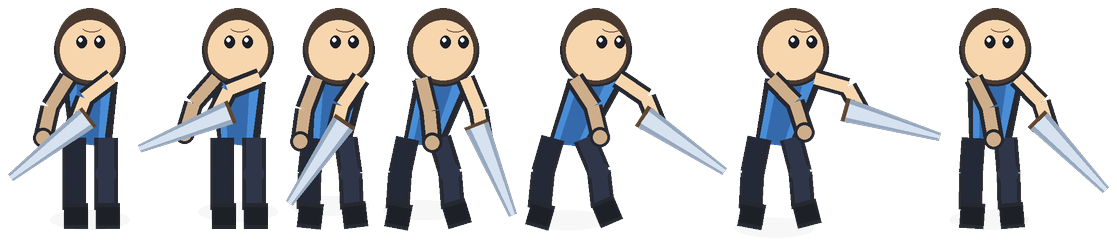
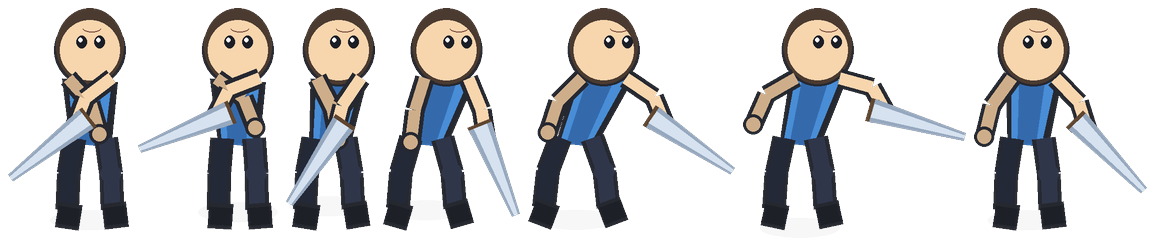
walk 동작 개선: 다리 스윙 각도를 기울기와 분리, 몸체 들림 폭 확대, 6프레임 전부 크기 다름

Changed region(s): [[0.0304, 0.0285, 0.6697, 0.939], [0.6392, 0.0285, 0.974, 0.939], [0.0609, 0.0285, 0.0913, 0.0569]]

diff --git a/Labs/LEC08_Animation/make_sprite_sheet.py b/Labs/LEC08_Animation/make_sprite_sheet.py
@@ -27,41 +27,70 @@ OUT_DIR = os.path.dirname(os.path.abspath(__file__))
 # 애니메이션 정의
 # pose = (관절 각도, 몸체 y 오프셋, 앞팔 각도)
 # ---------------------------------------------------------------
+# ---------------------------------------------------------------
+# 애니메이션 정의
+# pose = (관절 각도/기울기, 몸체 y 오프셋, 앞팔 각도, 다리 스윙 각도)
+#
+#   lean      : 몸통 기울기 (앞으로 기울일 때 사용)
+#   y_off     : 몸체 수직 이동 (양수=웅크림, 음수=들림)
+#   arm_angle : 앞팔 각도 (양수=뒤로, 음수=앞으로)
+#   leg_swing : 앞다리 각도 (양수=뒤로, 음수=앞으로). 뒷다리는 반대.
+#
+# 다리 스윙과 몸체 들림 폭을 충분히 주면 프레임마다 크기가 달라진다.
+# ---------------------------------------------------------------
 ANIMATIONS = [
     {
-        # 6 프레임
+        # 6 프레임 - 걷기: 접지 -> 하강 -> 통과(들림) -> 상승 -> 반대 접지 -> 통과
         "name": "walk",
         "fps": 8,
         "poses": [
-            (0, 0, 18), (0, -2, 0), (0, 0, -18),
-            (0, -2, 0), (0, 0, 18), (0, -2, 0),
+            (2, 4, 30, 24),
+            (1, 7, 16, 10),
+            (0, -12, 2, 0),
+            (-1, -8, -14, -10),
+            (-2, 4, -30, -24),
+            (0, -3, 8, 3),
         ],
     },
     {
-        # 8 프레임
+        # 8 프레임 - 뛰기: 큰 보폭과 큰 상하 이동
         "name": "run",
         "fps": 14,
         "poses": [
-            (26, 0, 38), (22, -8, 26), (13, -4, 8), (5, -10, -8),
-            (0, -5, -22), (5, 0, -32), (13, -8, -26), (22, -4, -8),
+            (24, 0, 40, 34),
+            (20, -9, 26, 22),
+            (12, -5, 8, 6),
+            (4, -12, -8, -8),
+            (0, -6, -24, -16),
+            (4, 0, -34, -26),
+            (12, -9, -28, -20),
+            (20, -5, -10, -8),
         ],
     },
     {
-        # 5 프레임
+        # 5 프레임 - 점프: 웅덩이(다리 모음) -> 도약 -> 정점(다리 펴짐) -> 착지
         "name": "jump",
         "fps": 6,
         "poses": [
-            (0, 12, -28), (5, 20, -20), (-9, -28, 22),
-            (0, -10, 12), (0, 0, 0),
+            (0, 12, -28, 26),
+            (5, 20, -20, 30),
+            (-9, -28, 22, 18),
+            (0, -10, 12, 12),
+            (0, 0, 0, 2),
         ],
     },
     {
-        # 7 프레임
+        # 7 프레임 - 공격: 상체 중심, 다리는 거의 고정한 채 검을 움직임
         "name": "attack",
         "fps": 11,
         "poses": [
-            (0, 0, -52), (0, -4, -68), (8, -7, -34), (17, -5, 22),
-            (23, 0, 56), (15, 4, 74), (5, 0, 44),
+            (0, 0, -52, 8),
+            (0, -4, -68, 4),
+            (8, -7, -34, 10),
+            (17, -5, 22, 16),
+            (23, 0, 56, 20),
+            (15, 4, 74, 12),
+            (5, 0, 44, 8),
         ],
     },
 ]
@@ -247,8 +276,11 @@ def draw_sword(d, hand, angle):
 # 프레임 렌더링
 # ---------------------------------------------------------------
 def render_pose(pose, kind):
-    """포즈 1개를 고해상도 RGBA 이미지로 렌더링."""
-    lean, y_off, arm_angle = pose
+    """포즈 1개를 고해상도 RGBA 이미지로 렌더링.
+
+    pose = (lean, y_off, arm_angle, leg_swing)
+    """
+    lean, y_off, arm_angle, leg_swing = pose
 
     img = Image.new("RGBA", (FRAME_W * SS, FRAME_H * SS), (0, 0, 0, 0))
     d = ImageDraw.Draw(img)
@@ -258,15 +290,17 @@ def render_pose(pose, kind):
 
     shoulder, hip = draw_torso(d, lean, y_off)
 
-    # 다리 (뒤 -> 앞)
-    draw_leg(d, (-HIP_W, hip[1] + 2), -lean * 0.7, dark=True)
-    draw_leg(d, (HIP_W, hip[1] + 2), lean, dark=False)
+    # 다리: 앞다리는 leg_swing, 뒷다리는 반대로 swing 하여 교대로 걷는다.
+    # 걷기/뛰기에서는 다리가 넓게 벌어지면 발이 낮아져 프레임 높이가 커진다.
+    draw_leg(d, (-HIP_W, hip[1] + 2), -leg_swing, dark=True)
+    draw_leg(d, (HIP_W, hip[1] + 2), leg_swing, dark=False)
 
     # 머리
     draw_head(d, lean * 0.6, HEAD_CY + y_off, lean)
 
-    # 팔 (뒤 -> 앞)
-    draw_arm(d, (shoulder[0] - SHOULDER_W, shoulder[1] + 2), arm_angle * 0.6, dark=True)
+    # 팔: 앞팔과 반대쪽 팔이 같이 스윙한다
+    draw_arm(d, (shoulder[0] - SHOULDER_W, shoulder[1] + 2), -arm_angle * 0.8,
+             dark=True)
     _, hand = draw_arm(d, (shoulder[0] + SHOULDER_W, shoulder[1] + 2),
                        arm_angle, dark=False)
 
